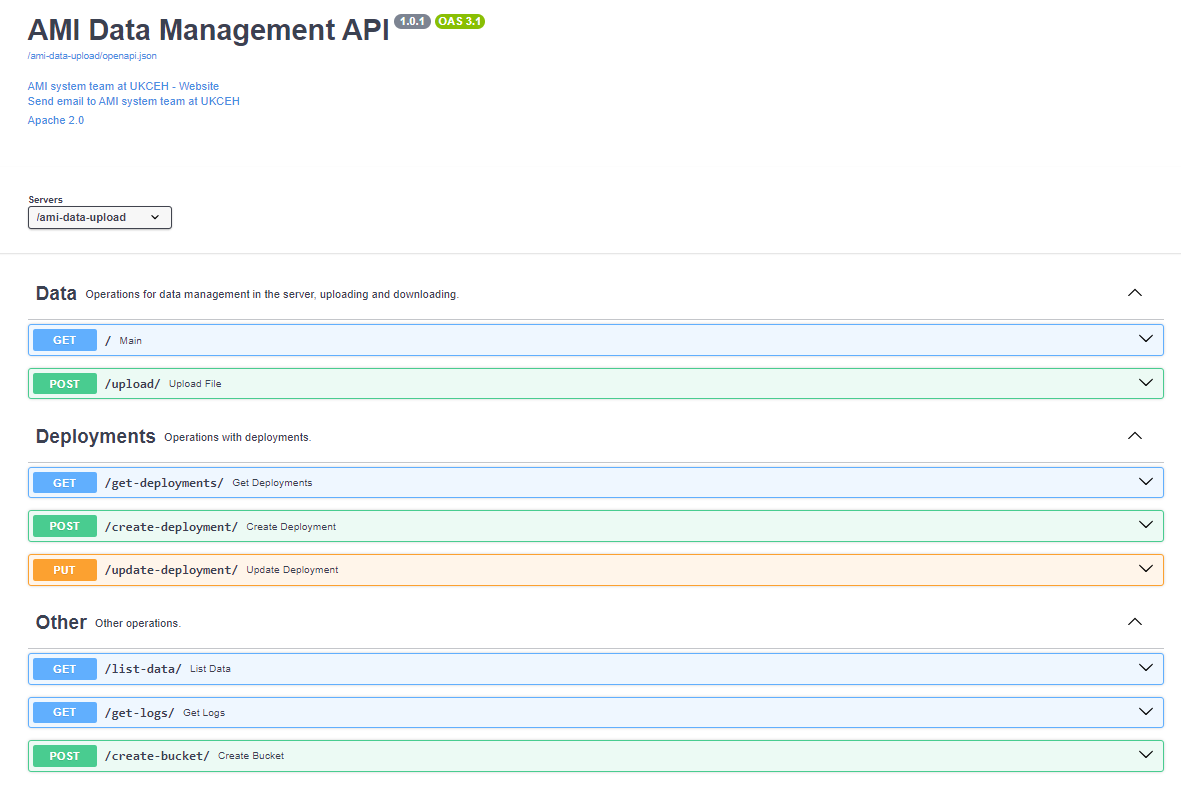
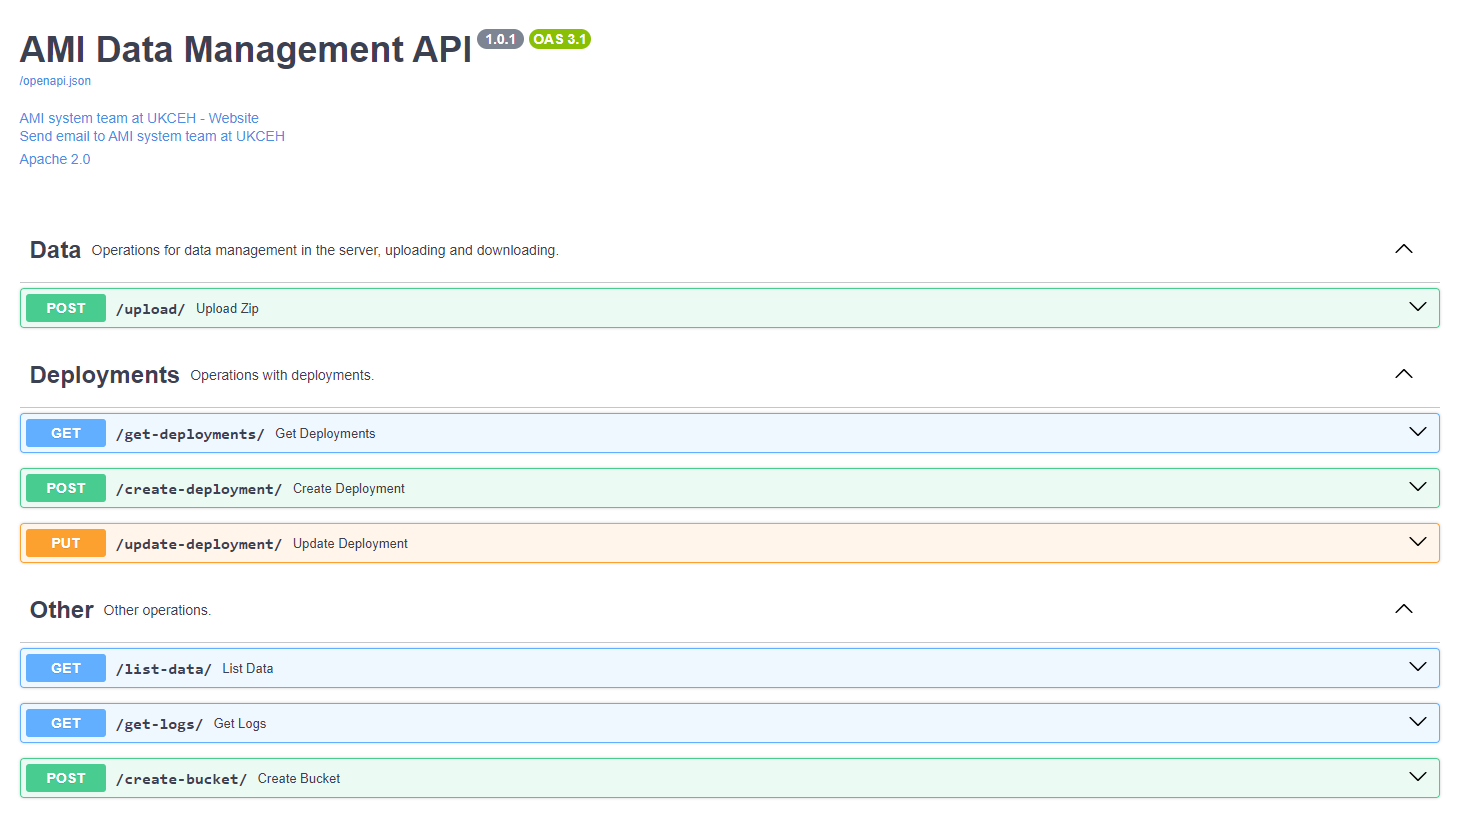
Update documentation

Changed region(s): [[0.0, 0.2427, 1.0, 0.9709], [0.0, 0.0, 0.4268, 0.2124]]

diff --git a/README.md b/README.md
@@ -67,7 +67,7 @@ Once the application is running, open your web browser and navigate to http://lo
    - **Country:** Select the country from the dropdown menu.
    - **Deployment:** Select the deployment from the dropdown menu.
    - **Data type:** Select the type of data (e.g., motion images, snapshot images, audible recordings, ultrasound recordings).
-   - **Select Files:** Choose the files you want to upload (images and audio files are allowed).
+   - **Select Zip File:** Choose the zip file you want to upload, that contains images or audio files depending on the type of data that you are uploading.
    - **Review Data:** Check the box to acknowledge that you have reviewed the data.
   
   
@@ -84,6 +84,19 @@ Once the application is running, open your web browser and navigate to http://lo
 - **ReDoc:** [http://localhost:8080/redoc](http://localhost:8080/redoc)
 
 ![api_screenshot.png](./images/api_screenshot.png)
+
+### Data management
+- **Upload Data:** Endpoint for pushing images and audio files to the server. The files need to be compressed in zip folder not bigger than 5Gbs. 
+  ```http
+  POST /upload/
+  ```
+  Form Data:
+  - `name`: `string`
+  - `country`: `string`
+  - `deployment`: `string`
+  - `data_type`: `string`
+  - `file`: `.zip file`
+  
 
 ### Deployments
 - **Get Deployments:** Endpoint to retrieve all deployment information.
@@ -103,13 +116,8 @@ Once the application is running, open your web browser and navigate to http://lo
     "location_name": "Location Name",
     "lat": "Latitude",
     "lon": "Longitude",
-    "location_id": "Location ID",
     "camera_id": "Camera ID",
-    "system_id": "System ID",
     "hardware_id": "Hardware ID",
-    "deployment_id": "Deployment ID",
-    "data_type": "motion_images,snapshot_images,audible_recordings,ultrasound_recordings",
-    "s3_key": "country_code/deployment_id/file_type",
     "status": "inactive"
   }
   ```
@@ -132,24 +140,9 @@ Once the application is running, open your web browser and navigate to http://lo
     "system_id": "System ID",
     "hardware_id": "Hardware ID",
     "deployment_id": "Deployment ID",
-    "data_type": "motion_images,snapshot_images,audible_recordings,ultrasound_recordings",
-    "s3_key": "country_code/deployment_id/file_type",
     "status": "inactive"
   }
   ```
-  
-  
-### Data management
-- **Upload Data:** Endpoint for pushing images and audio files to the server. The files need to be compressed in zip folder not bigger than 5Gbs. 
-  ```http
-  POST /upload/
-  ```
-  Form Data:
-  - `name`: `string`
-  - `country`: `string`
-  - `deployment`: `string`
-  - `data_type`: `string`
-  - `file`: `.zip file`
   
   
 ### Other Operations
